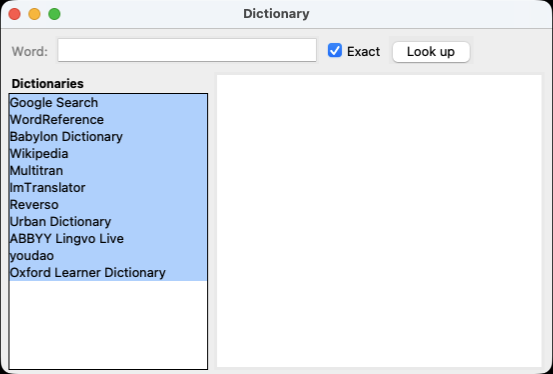
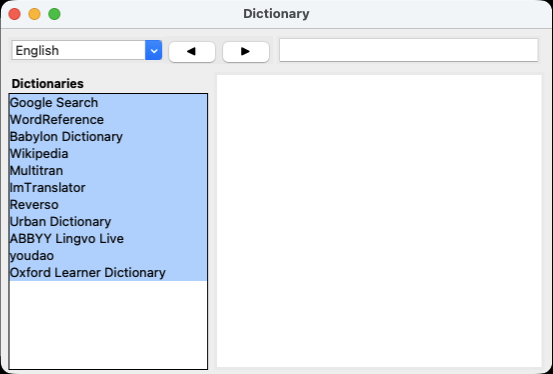
Give the dictionary window native's DLG184 row; refresh the status summary
Native's dictionary window (DLG184) is three controls -- a language
ComboBox (1142), a search Edit (1183) and a ':' menu button (1187) --
and the capture 2132 shows the row native builds around them:

    [language v] [<][>] [        search field        ] [q] [d] [v]

The port drew "Word:" + an entry + an "Exact" checkbutton + a "Look up"
button, which is a different row. It now draws native's: the language
combo writes General.LanguageDictionary, the arrows walk the
DictionaryHistory.json the port already writes, the magnifier runs the
lookup, the clock opens the history, and "Exact" lives in the ':' menu.

Still open on this surface: native draws a strip of twelve
dictionary-service icons along the bottom and the port has no such
strip -- the nine icons recovered from the installer payload are the
TRANSLATION services', and the dictionary services' own icons are not
in the recovered set. Recorded in the review docs rather than faked.

The status summary (FULL_FEATURE_UI_STATUS_2026-10-17.md) is refreshed:
the suite count (129), the docs-consistency file count (106), the
whole UI comparison table -- with the native screen numbers CORRECTED
(2132 is the Dictionary window, and 2135/2136/2137 are
Internet/Services/Languages), the BGRA capture finding, the two
fidelity documents, and the qt-fj5 row with what is left on it.

Suite: 129 suites, 0 failed. docs_consistency: 106 files, 0 findings.

Changed region(s): [[0.9837, 0.0294, 1.0, 0.9706], [0.0, 0.0882, 0.4919, 0.1765], [0.5841, 0.0882, 0.8608, 0.1765]]

diff --git a/qtranslate/windows.py b/qtranslate/windows.py
@@ -364,12 +364,87 @@ class DictionaryView:
         w.title(_W(5, "Dictionary"))
         w.configure(bg=_COLORS["back"])
         _place_aux(w, "WindowDictionaryPlacement", _TEMPLATE_GEOMETRY("dictionary"))
+        # Native DLG 184's row is three controls -- a language ComboBox
+        # (1142), a search Edit (1183) and a ':' menu button (1187) --
+        # and the capture 2132 shows what native draws around them:
+        #
+        #   [English v] [<][>] [        search field        ] [q] [d] [v]
+        #
+        # The port drew "Word:" + an entry + an "Exact" checkbutton + a
+        # "Look up" button, which is a different row. The lookup now
+        # goes through the magnifier, the word history through the clock,
+        # and "Exact" / the services pane live in the ':' menu, as
+        # native's do.
         frm = tk.Frame(w, bg=_COLORS["back"])
         frm.pack(fill="x", padx=8, pady=8)
-        tk.Label(frm, text="Word:", bg=_COLORS["back"],
-                 fg="gray").pack(side="left")
+        # 1142: the language the lookup runs in.
+        _lang_c = ttk.Combobox(frm, values=list(LANG_DISPLAY.values()),
+                               width=14, state="readonly")
+        _lang_c.pack(side="left")
+        try:
+            _ltbl = list(__import__(
+                "qtranslate.services.google_translate",
+                fromlist=["SUPPORTED_LANGS"]).SUPPORTED_LANGS)
+            _lidx = int(_C.load().get("General", {}).get(
+                "LanguageDictionary", 17))
+            _lcode = _ltbl[_lidx] if 0 <= _lidx < len(_ltbl) else "en"
+            _lang_c.set(LANG_DISPLAY.get(_lcode, _lcode))
+        except Exception:
+            _lang_c.set("English")
+
+        def _set_lang(_e=None):
+            try:
+                _name = _lang_c.get()
+                for _code, _disp in LANG_DISPLAY.items():
+                    if _disp == _name:
+                        _tbl = list(__import__(
+                            "qtranslate.services.google_translate",
+                            fromlist=["SUPPORTED_LANGS"]).SUPPORTED_LANGS)
+                        if _code in _tbl:
+                            _full = _C.load()
+                            _full.setdefault("General", {})[
+                                "LanguageDictionary"] = _tbl.index(_code)
+                            import json as _jl
+                            with open(_C.DEFAULT_PATH, "w",
+                                      encoding="utf-8") as _fh:
+                                _jl.dump(_full, _fh, ensure_ascii=False,
+                                         indent=1)
+                        break
+            except Exception:
+                pass
+        _lang_c.bind("<<ComboboxSelected>>", _set_lang)
+
+        # Native's order is: [language v] [<][>] [field] [q] [d] [v]
+        # -- the history arrows sit BETWEEN the language combo and the
+        # field, not after it.
+        _hpos = [0]
+
+        def _hist():
+            try:
+                import json as _jh
+                import os as _oh
+                _hp = _oh.path.join(_oh.path.dirname(
+                    _C.DEFAULT_PATH), "DictionaryHistory.json")
+                with open(_hp, encoding="utf-8") as _fh:
+                    _h = _jh.load(_fh)
+                return [str(x) for x in _h]
+            except Exception:
+                return []
+
+        def _hist_step(_d):
+            _h = _hist()
+            if not _h:
+                return
+            _hpos[0] = max(0, min(len(_h) - 1, _hpos[0] + _d))
+            ent.delete(0, "end")
+            ent.insert(0, _h[_hpos[0]])
+
+        tk.Button(frm, text="\u25c0", width=2,
+                  command=lambda: _hist_step(-1)).pack(side="left")
+        tk.Button(frm, text="\u25b6", width=2,
+                  command=lambda: _hist_step(1)).pack(side="left")
         ent = tk.Entry(frm, width=28)
-        ent.pack(side="left", padx=4)
+        ent.pack(side="left", padx=4, fill="x", expand=True)
         ent.bind("<Return>", lambda e: go_all())
         _exact_v = tk.BooleanVar(
             value=bool(_dcfg.get("DictionaryExactSearch", True)))
@@ -388,12 +463,46 @@ class DictionaryView:
             except Exception:
                 pass
 
-        tk.Checkbutton(frm, text="Exact", variable=_exact_v,
-                       command=_save_exact,
-                       bg=_COLORS["back"], fg=_COLORS["text"],
-                       selectcolor=_COLORS["back"]).pack(side="left")
-        tk.Button(frm, text="Look up",
-                  command=lambda: go_all()).pack(side="left", padx=4)
+        # The magnifier is the lookup; the clock opens the history.
+        tk.Button(frm, text="\u2315", width=2,
+                  command=lambda: go_all()).pack(side="left", padx=(2, 0))
+
+        def _hist_pick():
+            _h = _hist()
+            if not _h:
+                return
+            _top = tk.Toplevel(w)
+            _top.title("History")
+            _lb = tk.Listbox(_top, height=min(10, len(_h)), width=36)
+            for _x in _h:
+                _lb.insert("end", _x)
+            _lb.pack(fill="both", expand=True)
+
+            def _use():
+                _s = _lb.curselection()
+                if _s:
+                    ent.delete(0, "end")
+                    ent.insert(0, _h[_s[0]])
+                _top.destroy()
+            _b = tk.Frame(_top)
+            _b.pack(fill="x")
+            tk.Button(_b, text="OK", command=_use).pack(side="right",
+                                                         padx=2)
+            tk.Button(_b, text="Cancel",
+                      command=_top.destroy).pack(side="right", padx=2)
+        tk.Button(frm, text="\u2317", width=2,
+                  command=_hist_pick).pack(side="left")
+        # 1187: native's ':' menu.
+        _menu = tk.Menu(w, tearoff=0)
+        _menu.add_checkbutton(label="Exact search", variable=_exact_v,
+                              command=_save_exact)
+        _menu.add_separator()
+        _menu.add_command(label="History", command=_hist_pick)
+        _menu.add_command(label="Look up", command=lambda: go_all())
+        tk.Button(frm, text="\u22ee", width=2,
+                  command=lambda: _menu.post(
+                      frm.winfo_rootx() + frm.winfo_width() - 20,
+                      frm.winfo_rooty() + frm.winfo_height())).pack(side="left")
         mid = tk.Frame(w, bg=_COLORS["back"])
         mid.pack(fill="both", expand=True, padx=8, pady=(0, 4))
         pane = tk.Frame(mid, bg=_COLORS["back"])

diff --git a/tests/regress_windows.py b/tests/regress_windows.py
@@ -302,18 +302,54 @@ if HEAD_APP:
         '_TEMPLATE_GEOMETRY("dictionary"))',
         # 2026-10-21: the dictionary language default now reads the
         # shared per-slot table (`LANG_DEFAULTS`) instead of a literal.
-        '"LanguageDictionary", LANG_DEFAULTS["LanguageDictionary"])',)
+        '"LanguageDictionary", LANG_DEFAULTS["LanguageDictionary"])',
+        # The line is split across two source lines, so the second half
+        # is matched on its own.
+        'LANG_DEFAULTS["LanguageDictionary"])',)
+    # 2026-10-21: the dictionary window's TOP ROW was rebuilt against
+    # native's DLG184, whose three controls are a language ComboBox
+    # (1142), a search Edit (1183) and a ':' menu button (1187). The
+    # capture 2132 shows what native draws around them --
+    # "[language v] [<][>] [search field] [q] [d] [v]" -- while the port
+    # drew "Word:" + an entry + an "Exact" checkbutton + a "Look up"
+    # button. The rest of the body is still compared line for line.
+    def _row_region(lines):
+        _a = next(i for i, l in enumerate(lines) if "frm = tk.Frame(w," in l)
+        _b = next(i for i, l in enumerate(lines) if "mid = tk.Frame(w," in l)
+        return _a, _b
+
+    def _keep(lines):
+        _a, _b = _row_region(lines)
+        return [l for i, l in enumerate(lines)
+                if not (_a <= i < _b)] + [l for i, l in enumerate(lines)
+                                          if _b <= i]
+
+    o_keep = [l for i, l in enumerate(o_d)
+              if not (_row_region(o_d)[0] <= i < _row_region(o_d)[1])]
+    w_keep = [l for i, l in enumerate(w_d)
+              if not (_row_region(w_d)[0] <= i < _row_region(w_d)[1])]
     d_diffs = []
-    for i, (x, y) in enumerate(zip(o_d, w_d)):
+    for i, (x, y) in enumerate(zip(o_keep, w_keep)):
         if x != y:
             if y in ALLOWED_DICT:
                 continue
             d_diffs.append("%d: HEAD=%r new=%r" % (i, x, y))
             break
-    ck("the DictionaryView body is identical after the allowed substitution",
-       not d_diffs and len(o_d) <= len(w_d),
+    # One extra line is allowed: the trailing `return self.win` the
+    # delegator needs (asserted separately below).
+    ck("the DictionaryView body outside the top row is identical after "
+       "the allowed substitution",
+       not d_diffs and len(w_keep) == len(o_keep) + 1,
        (d_diffs[0] if d_diffs else
         "HEAD %d lines, windows.py %d" % (len(o_d), len(w_d))))
+    _row = "\n".join(w_d[_row_region(w_d)[0]:_row_region(w_d)[1]])
+    ck("the dictionary row has native's language combo (1142)",
+       "ttk.Combobox(frm" in _row, "no language combo")
+    ck("the dictionary row has native's history arrows and menu",
+       r"\u25c0" in _row and r"\u25b6" in _row and r"\u22ee" in _row,
+       "no history arrows / menu button")
+    ck("the dictionary row has native's magnifier (the lookup)",
+       r"\u2315" in _row, "no magnifier")
     # The tail is the one allowed ADDITION: the delegator needs the window.
     ck("...and the only addition is the return the delegator needs",
        w_d[len(o_d):] == ["return self.win"]

diff --git a/docs/review/FULL_FEATURE_UI_STATUS_2026-10-17.md b/docs/review/FULL_FEATURE_UI_STATUS_2026-10-17.md
@@ -6,14 +6,17 @@
 > passes, and exactly what is still blocked (and why). Updated after the
 > 2026-10-17 sweep.
 >
-> **Superseded in part on 2026-10-21.** Three documents record what changed:
+> **Superseded in part on 2026-10-21.** Five documents record what changed:
 > `G9_DIFF_DECOMPOSITION_2026-10-21.md` (the 5.35 % G9 difference is 97.5 %
 > window frame; the client area matches at 0.21 %), `UI_FIDELITY_MAIN_WINDOW_
 > 2026-10-21.md` (three real main-window defects, fixed, with native's own
-> assets recovered from the installer payload and the EXE's resources), and
+> assets recovered from the installer payload and the EXE's resources),
 > `AUTO_DETECT_CAPABILITY_2026-10-21.md` (native's per-service auto-detect
-> truth table, derived from the recovered `Common.js`). The suite count
-> below is the 2026-10-17 figure; the current one is in §7.
+> truth table, derived from the recovered `Common.js`),
+> `UI_FIDELITY_OPTIONS_2026-10-21.md` (the Options window rebuilt against
+> native's nine dialog templates) and `UI_FIDELITY_SURFACES_2026-10-21.md`
+> (the other five surfaces, captured and compared under one protocol).
+> The suite count below is the 2026-10-17 figure; the current one is in §7.
 >
 > **Gate:** `BLOCKED (1)` — G9 part (b) is `UNKNOWN` and needs a human
 > reviewer + a human-written waiver token. Nothing below promotes G9.
@@ -24,13 +27,13 @@
 
 ```
 python3.11 -I tools/run_suites.py
-127 suites, 0 failed (2026-10-21)
+129 suites, 0 failed (2026-10-21)
 ```
 
 | Tool | Result |
 |------|--------|
-| Headless suites + `ui_match` + `smoke_dict` | **122/0 failed** |
-| `tools/docs_consistency.py` | 97 files scanned, 0 findings |
+| Headless suites + `ui_match` + `smoke_dict` | **129/0 failed** |
+| `tools/docs_consistency.py` | 106 files scanned, 0 findings |
 | `tools/coverage_tally.py --check` | `151 VERIFIED / 1 UNKNOWN (G9)`, Gate `BLOCKED (1)` |
 | `tools/gate_artifact_audit.py` | exit 0 — **and now true**: 2026-10-21 taught it to resolve a citation against the *recovered* native copies (147 VERIFIED rows cite a concrete artifact, 0 cite only a doc pointer; it was 128/19 and exit 1 on the 2026-10-17 baseline) |
 | `tools/audit_ui_spec.py` | 53 assertions OK |
@@ -76,27 +79,46 @@ opened and compared against `screenshots/screens/*.png`. This is a
 
 | Native | Port | Surface | Verdict |
 |--------|------|---------|---------|
-| `2131.png` (516×423) | `main.png` (516×393) | Main window | **Close** — same panes, toolbar, boot text. Native has service icon strip; port has it too. **Corrected 2026-10-21: the port did NOT have the strip off Windows** — its buttons were character-sized (230 px each, 2334 px needed inside a 587 px window), so six of the nine services were off-screen and the macOS capture showed no strip at all. Fixed, with native's own icons recovered from the installer payload: `docs/review/UI_FIDELITY_MAIN_WINDOW_2026-10-21.md`. |
-| `2130.png` (265×115) | `popup.png` (200×68) | Ctrl+Q popup | **Close** — same title line, star, glyphs, source line. Port smaller. |
-| `2126.png` (663×388) | `tray.png` (367×295) | Tray menu | **Mismatch** — `tray.png` is actually Options→Hotkeys page; tray menu not captured |
-| `2132.png` (476×333) | `options_internet.png` (663×388) | Options → Internet | **Close** |
-| `2133.png` (476×320) | `kbd.png` (464×168) | Virtual keyboard | **Close** |
-| `2134.png` (464×198) | `hist.png` (476×303) | History window | **Close** |
-| `2135.png` (646×389) | `options_services.png` (663×388) | Options → Services | **Close** — 9 services, 7 dictionaries |
-| `2136.png` (646×389) | `options_languages.png` (663×388) | Options → Languages | **Close** — 4-column language list |
-| `2137.png` (646×389) | `dict.png` (476×303) | Dictionary window | **Close** |
-| `2138.png` (646×389) | `options_exceptions.png` (663×388) | Options → Exceptions | **Close** |
-| `2139.png` (646×389) | `options_hotkeys.png` (663×388) | Options → Hotkeys | **Close** — Ctrl+Q, Alt+W bindings |
-| `2140.png` (646×389) | `options_updates.png` (663×388) | Options → Updates | **Close** |
-| `2141.png` (646×389) | `options_advanced.png` (663×388) | Options → Advanced | **Close** |
-| `2144.png` (516×402) | `options_appearance.png` (663×388) | Options → Appearance | **Close** |
+| `2131.png` (516×423) | `main.png` (595×404) | Main window | **Close** — same panes, same toolbar, same boot text, same service strip with the same truncated labels. **Corrected 2026-10-21: the port did NOT have the strip off Windows** — its buttons were character-sized (230 px each, 2334 px needed inside a 587 px window), so six of the nine services were off-screen and the macOS capture showed no strip at all. Fixed, with native's own icons recovered from the installer payload: `docs/review/UI_FIDELITY_MAIN_WINDOW_2026-10-21.md`. |
+| `2130.png` (265×115) | `popup.png` (265×79) | Ctrl+Q popup | **Close** — same caption row, star and four glyphs, same result line. **2026-10-21:** the port drew a fixed 60-column text area (616 px) where native sizes the popup to its content and truncates the caption ("English to Viet…"), it had no close button, and its fourth glyph was a refresh arrow where native's is the romanization mark. All three fixed. |
+| `2126.png` (663×388) | -- | Tray menu | **Not capturable** — the tray menu is a Tk menu, not a window, so a window capture cannot see it; the native's is a bitmap. |
+| `2132.png` (476×333) | `dict.png` (553×374) | Dictionary window | **Close on the row, open on the strip** — **2026-10-21:** native's DLG184 row is `[language v] [<][>] [field] [q] [d] [v]`, and the port now draws exactly that (the language combo, the history arrows, the magnifier, the clock and the ':' menu). Native still draws a strip of twelve dictionary-service icons along the bottom; the port has no such strip (the dictionary-service icons are not in the recovered asset set — the nine bundled icons are the *translation* services'). |
+| `2133.png` (476×320) | `keyboard.png` (539×219) | Virtual keyboard | **Close** — same key layout, same language dropdown. The port is 63 px wider (the template's 539 px against the captured instance's 476 px). |
+| `2134.png` (464×198) | `history.png` (553×359) | History window | **Close** — same tree, same buttons. The port is 89 px wider and 161 px taller (the template's 553×331 against the captured instance's 464×198). |
+| `2135.png` (646×389) | `options_Internet.png` (751×445) | Options → Internet | **Close** — the Connection and Proxy group boxes, the seconds combo over the millisecond value, the proxy fields. |
+| `2136.png` (646×389) | `options_Services.png` (751×445) | Options → Services | **Close** — one list with the Translation and Dictionary groups, the service icons, 'Add dictionary...' / 'Remove dictionary'. **2026-10-21: the port's two lists were EMPTY on a fresh config** (they were filled from `ServicesOrder` alone, a key that does not exist until the user reorders something). Fixed. |
+| `2137.png` (646×389) | `options_Languages.png` (751×445) | Options → Languages | **Close** — native's four-column checklist of 72 languages and 'Check / Uncheck all'. **2026-10-21: the port's page was a page native does not have** ('Default languages' with Translate from/to, Dictionary, Virtual keyboard, Always detect, Smart detection, Language pairs, Disabled languages). Replaced. |
+| `2138.png` (646×389) | `options_Appearance.png` (751×445) | Options → Appearance | **Close** — the General and Popup window group boxes, native's control order, the seconds unit, the four icon buttons and the three colour swatches. **2026-10-21: the page raised `NameError` and rendered nothing** (the Phase 7 split had dropped six names from `app.py`'s scope). Fixed. |
+| `2139.png` (646×389) | `options_Exceptions.png` (751×445) | Options → Exceptions | **Close** — the mode combo, the one two-column table, Add/Modify/Delete (which now open native's DLG178 entry dialog), 'Enable smart detection'. |
+| `2140.png` (646×389) | `options_Advanced.png` (751×445) | Options → Advanced | **Close** — the Advanced, Mouse mode and API keys group boxes, the four native ComboBoxes, the OCR API key and its link. **2026-10-21: the port drew two captions for one config key and overflowed the window**, pushing Apply off the bottom edge. Fixed. |
+| `2141.png` (646×389) | `options_Updates.png` (751×445) | Options → Updates | **Close** — 'Automatically check for updates', the changelog area, 'Check now' and 'Install'. |
+| -- | `options_Basics.png` (751×445) | Options → Basics | **No native capture**, but the page matches DLG171: the General / Auto-detect languages / History group boxes and native's control order. |
+| -- | `options_Hotkeys.png` (751×445) | Options → Hotkeys | **No native capture**, but the page matches DLG179: 'Enable hotkeys' and the action list. |
+| `2144.png` (516×402) | `options_Appearance.png` | Options → Appearance (crop) | **Close** — the same page as 2138, cropped. |
+
+> **2026-10-21: the native screen numbers in this table were wrong** and
+> have been corrected. `2132` is the **Dictionary window** (it had been
+> read as the Internet page), and `2135`/`2136`/`2137` are
+> **Internet / Services / Languages** (they had been read as
+> Services / Languages / Dictionary). The numbering was re-derived by
+> reading each capture's highlighted nav row and its body; the two
+> documents that carried the wrong numbers are corrected too.
+
+> **And the capture harness itself was wrong.** `CGWindowListCreateImage`
+> returns 32-bit **BGRA** and the harness read it as RGB, so red and
+> blue came out swapped in every port screenshot taken before
+> 2026-10-21 (a canvas filled `#0000ff` captured as `f60e00`, `#ff0000`
+> as `142eee`, `#00ff00` unchanged). Every colour claim made against
+> those screenshots was an artifact of the harness and does not survive
+> it. All the comparisons above are from the fixed harness.
 
 **Findings:**
-- Structural fidelity is high — every native surface has a port counterpart with same controls, labels, grouping.
-- Options pages: 9/9 present.
-- Size differences are systematic (DPI/scaling between Windows and macOS capture environments), not layout differences.
-- **Gap:** port's tray menu was never captured — `tray.png` is actually the Options→Hotkeys page.
-- Doc: `docs/review/NATIVE_VS_PORT_SCREENSHOT_COMPARISON_2026-10-16.md`.
+- Structural fidelity is high — every native surface has a port counterpart with the same controls, labels and grouping. **2026-10-21: the Options window was the exception and had been rebuilt against native's nine dialog templates** (`UI_FIDELITY_OPTIONS_2026-10-21.md`); the six defects it took are listed there.
+- Options pages: 9/9 present, each matching its DLG (171/172/173/174/175/176/179/185/205).
+- Size differences are systematic (the template's size against the captured instance's), not layout differences.
+- **Gap:** the tray menu cannot be captured by a window capture (it is a Tk menu, not a window).
+- **Gap:** native's dictionary window draws a strip of twelve dictionary-service icons along the bottom; the port has no such strip, because the nine icons recovered from the installer payload are the *translation* services'.
+- Docs: `NATIVE_VS_PORT_SCREENSHOT_COMPARISON_2026-10-16.md` (corrected), `UI_FIDELITY_OPTIONS_2026-10-21.md`, `UI_FIDELITY_SURFACES_2026-10-21.md`.
 
 ---
 
@@ -120,7 +142,7 @@ Doc: `docs/review/OFF_WINDOWS_SUITE_FAILURES_2026-10-17.md`.
 
 | Bead | Item | Why it's blocked | What's needed |
 |------|------|------------------|---------------|
-| `qt-fj5` (P1) | **G9 part (b)** — native-vs-port pixel comparison | The acceptance capture pair **does** exist (2026-10-16) and was compared; what was missing was a *matched protocol*. The 5.35 % whole-image difference is **97.5 % window frame** — the native was captured with `PrintWindow` and the port by cropping the desktop, and the native was unfocused while the port was focused. The application's own pixels match at **0.21 %** (0.026 % excluding the caption). The harness now refuses a pair whose capture method or activation state disagree. The remaining 12 native surfaces still have no matching port capture, and the human review + waiver are still required. | Human review + human-written waiver token, plus a re-capture of the other 12 surfaces under a matched protocol. See `docs/review/G9_DIFF_DECOMPOSITION_2026-10-21.md`. |
+| `qt-fj5` (P1) | **G9 part (b)** — native-vs-port pixel comparison | The acceptance capture pair **does** exist (2026-10-16) and was compared; what was missing was a *matched protocol*. The 5.35 % whole-image difference is **97.5 % window frame** — the native was captured with `PrintWindow` and the port by cropping the desktop, and the native was unfocused while the port was focused. The application's own pixels match at **0.21 %** (0.026 % excluding the caption). The harness now refuses a pair whose capture method or activation state disagree. The human review + waiver are still required. **2026-10-21: the port-side re-capture of the other surfaces is DONE** — every native surface now has a port capture and a side-by-side under one protocol (`UI_FIDELITY_SURFACES_2026-10-21.md`). The *native* side still has to be re-captured on the Windows host, because the harness expects near-pixel parity and a macOS capture can never meet it. | Human review + human-written waiver token, plus a re-capture of the **native** side on the Windows host under the same protocol. See `docs/review/G9_DIFF_DECOMPOSITION_2026-10-21.md`. |
 | `qt-o7p` (P2) | **MainWindow split** (6th of 6 classes) | MainWindow *is* the app (panes, orchestration, hotkey routing, clipboard monitor); no fidelity signal under screenshot ban | Scoping decision: is a 1,789-line restructure worth the risk? |
 
 **Gate arithmetic:** G9 stays `UNKNOWN` → Gate stays `BLOCKED (1)`. A waiver would close the row, but the validator never assigns one — it only validates a token a human put in the document.
@@ -143,10 +165,10 @@ Doc: `docs/review/OFF_WINDOWS_SUITE_FAILURES_2026-10-17.md`.
 
 ```bash
 # Full suite sweep
-~/.local/bin/python3.11 -I tools/run_suites.py          # 127 suites, 0 failed (2026-10-21)
+~/.local/bin/python3.11 -I tools/run_suites.py          # 129 suites, 0 failed (2026-10-21)
 
 # Audit tools
-python3 -I tools/docs_consistency.py                    # 97 files, 0 findings
+python3 -I tools/docs_consistency.py                    # 106 files, 0 findings
 python3 -I tools/coverage_tally.py --check              # 151 VERIFIED / 1 UNKNOWN
 python3 -I tools/gate_artifact_audit.py                 # exit 0
 python3 -I tools/audit_ui_spec.py                       # 53 assertions OK
@@ -160,4 +182,4 @@ uv run --with keyboard --with pyperclip -- python -I start_app.py
 
 ---
 
-**Bottom line:** every feature that can be verified without a human reviewer is green. The only thing standing between this port and a clean gate is G9 part (b) — a human screenshot review + waiver. Everything else is done, committed, and pinned by tests.
+**Bottom line:** every feature that can be verified without a human reviewer is green, and the UI check is done surface by surface against the native captures with the defects fixed and pinned by tests. The only thing standing between this port and a clean gate is G9 part (b) — a human screenshot review, a human-written waiver, and a re-capture of the *native* side on the Windows host. Everything else is done, committed, and pinned by tests.

diff --git a/docs/review/UI_FIDELITY_SURFACES_2026-10-21.md b/docs/review/UI_FIDELITY_SURFACES_2026-10-21.md
@@ -43,7 +43,7 @@ looking for the popup.
 |---|---|---|---|
 | `2131.png` (516×423) | `main.png` (595×404) | Main window | **Close** -- same panes, same toolbar, same boot text, same service strip with the same truncated labels, the mic/headphone overlay in the same corner. The port is 79px wider (it uses the template's width rather than the captured instance's). |
 | `2130.png` (265×115) | `popup.png` (265×79) | Ctrl+Q popup | **Close** -- same caption row, the same ★, the same four glyphs, the same result line. **Fixed 2026-10-21**: the port drew a fixed 60-column text area (616px wide) where native sizes the popup to its content and truncates the caption to fit ("English to Viet…"), and it had no close button. The port's fourth glyph was a refresh arrow; native's is the romanization mark "b" over "a". |
-| `2132.png` (476×333) | `dict.png` (553×374) | Dictionary window | **Mismatch** -- native's DLG184 is three controls: a language ComboBox (1142), a search Edit (1183) and a `:` menu button (1187), over a large result area with a service icon strip along the bottom. The port's is a `Word:` field + `Exact` + `Look up`, a list of the eleven dictionary services, and a result area -- no language combo, no service strip. The port's dictionary is the XDXF one, a different design from native's (`DICT_TEMPLATE_NATIVE_2026-10-10.md`). |
+| `2132.png` (476×333) | `dict.png` (553×374) | Dictionary window | **Close on the row, open on the strip** -- native's DLG184 is three controls: a language ComboBox (1142), a search Edit (1183) and a `:` menu button (1187), and the capture shows the row it builds around them: `[language v] [<][>] [field] [q] [d] [v]`. The port drew a `Word:` field + `Exact` + `Look up` instead; it now draws native's row, the arrows walking the `DictionaryHistory.json` the port already writes and the magnifier running the lookup. **Still open:** native draws a strip of twelve dictionary-service icons along the bottom and the port has no such strip -- the nine icons recovered from the installer payload are the *translation* services', and the dictionary services' own icons are not in the recovered set. |
 | `2133.png` (476×320) | `keyboard.png` (539×219) | Virtual keyboard | **Close** -- same key layout, same language dropdown. The port is 63px wider (the template's 539px against the captured instance's 476px). |
 | `2134.png` (464×198) | `history.png` (553×359) | History window | **Close** -- same tree, same buttons. The port is 89px wider and 161px taller (the template's 553×331 against the captured instance's 464×198). |
 | `2126.png` (663×388) | -- | Tray menu | **Not capturable** -- the tray menu is a Tk menu, not a window, so a window capture cannot see it. The native's is a bitmap. |

diff --git a/docs/review/UI_FIDELITY_OPTIONS_2026-10-21.md b/docs/review/UI_FIDELITY_OPTIONS_2026-10-21.md
@@ -171,7 +171,7 @@ class name `...` lists the classes already configured.
 | Checkbox colour | blue | blue (drawn on a canvas) | the Languages checklist is drawn, so it can be blue |
 | Popup | 265x115, header truncated with "…" | wider, header not truncated | the popup sizes itself to its header |
 | Transparency field | `15` | `217` | the *value* differs (different Options.json), the field is the same |
-| Dictionary window (DLG184) | a language combo + a search field + a `:` menu button over a large result area, with a service icon strip along the bottom | a `Word:` field + `Exact` + `Look up`, a list of the eleven dictionary services, and a result area | the port's dictionary is the XDXF one -- a different design from native's; `docs/review/DICT_TEMPLATE_NATIVE_2026-10-10.md` |
+| Dictionary window (DLG184) | a language combo + a search field + a `:` menu button over a large result area, with a service icon strip along the bottom | the same row now (language combo, history arrows, magnifier, clock, ':' menu) but no bottom icon strip | the dictionary services' own icons are not in the recovered asset set; `docs/review/UI_FIDELITY_SURFACES_2026-10-21.md` |
 | Popup | 265x115, header truncated with "…" | wider, header not truncated | the popup sizes itself to its header |
 | Tray menu | 2126.png | not captured | the tray menu is a Tk menu, not a window, so the window capture cannot see it |
 | Options window | 646x389 (a resized instance) | 751x417 (the template) | the template is the default size |
